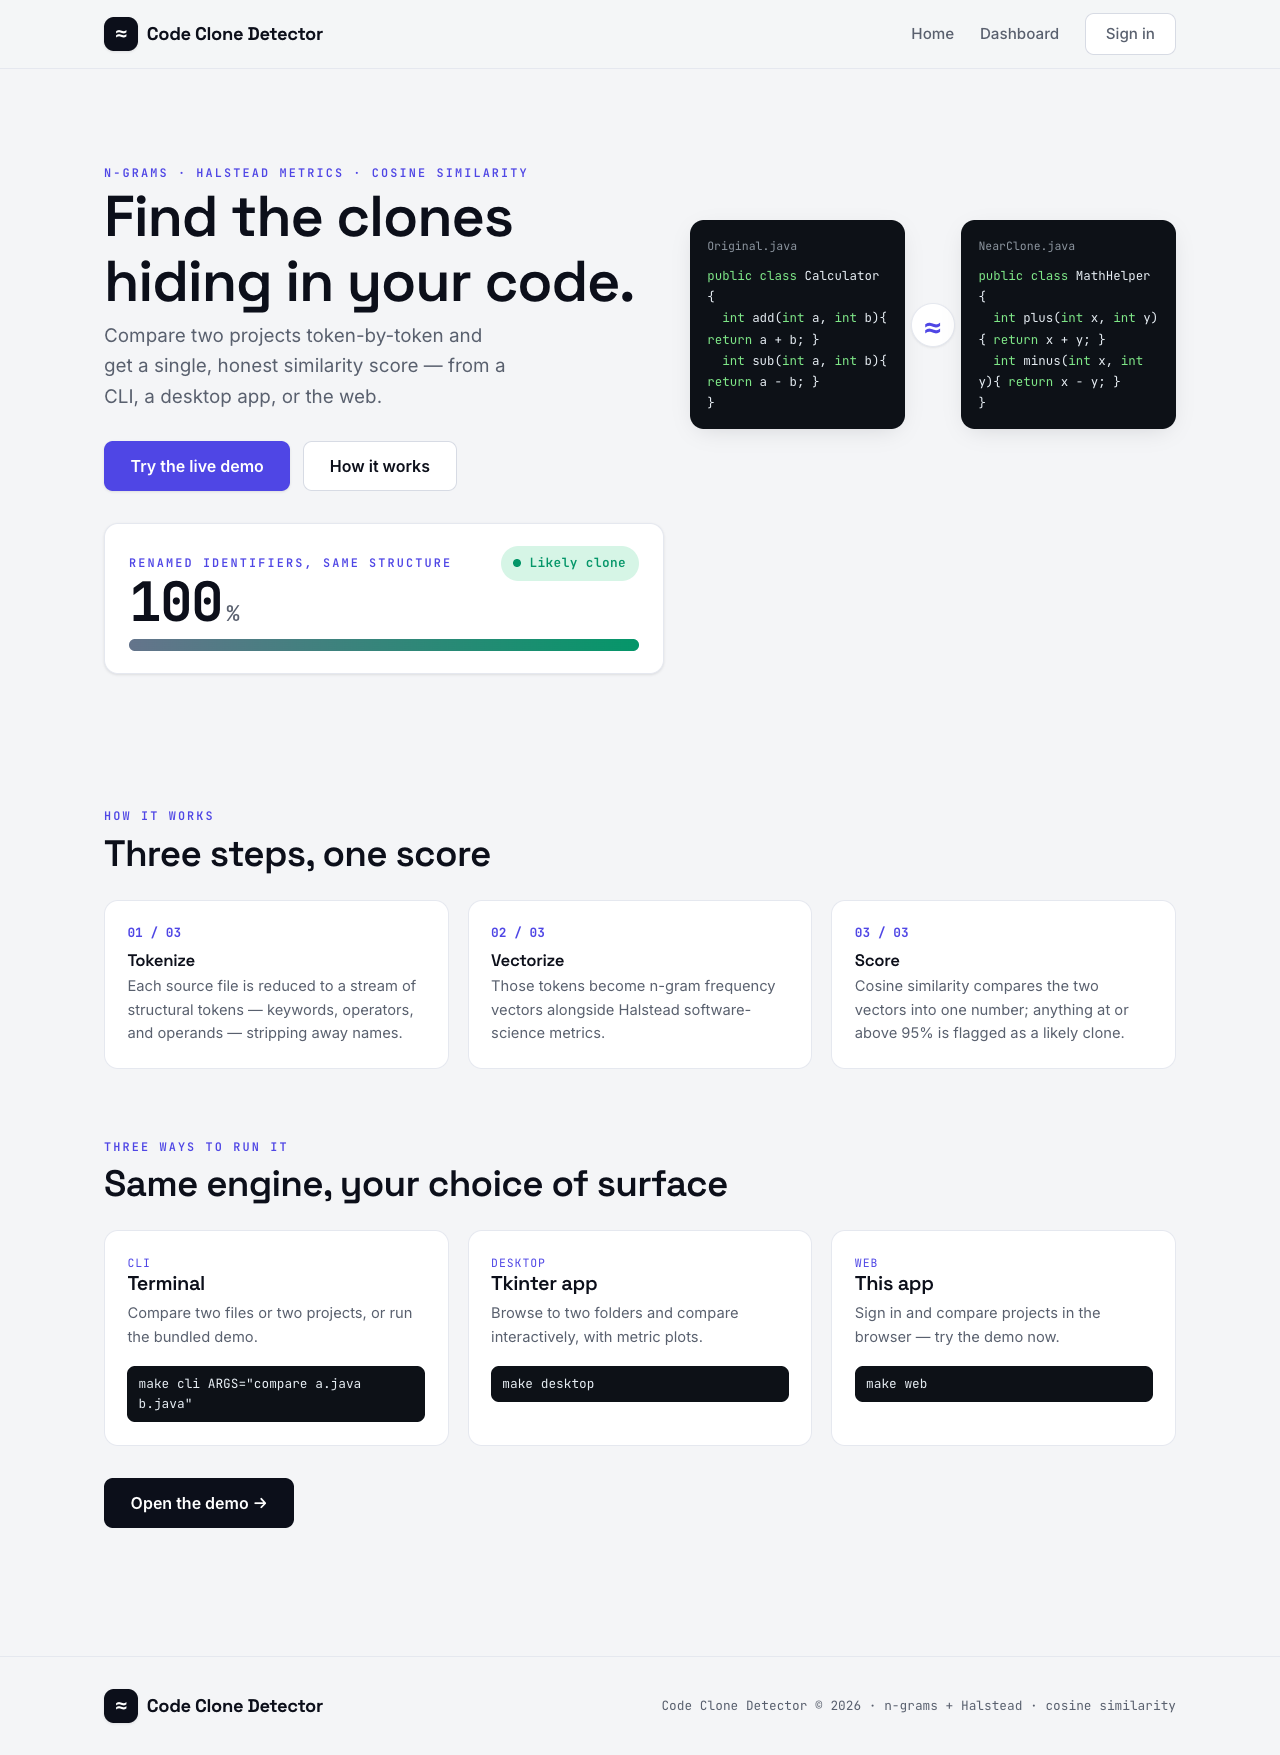
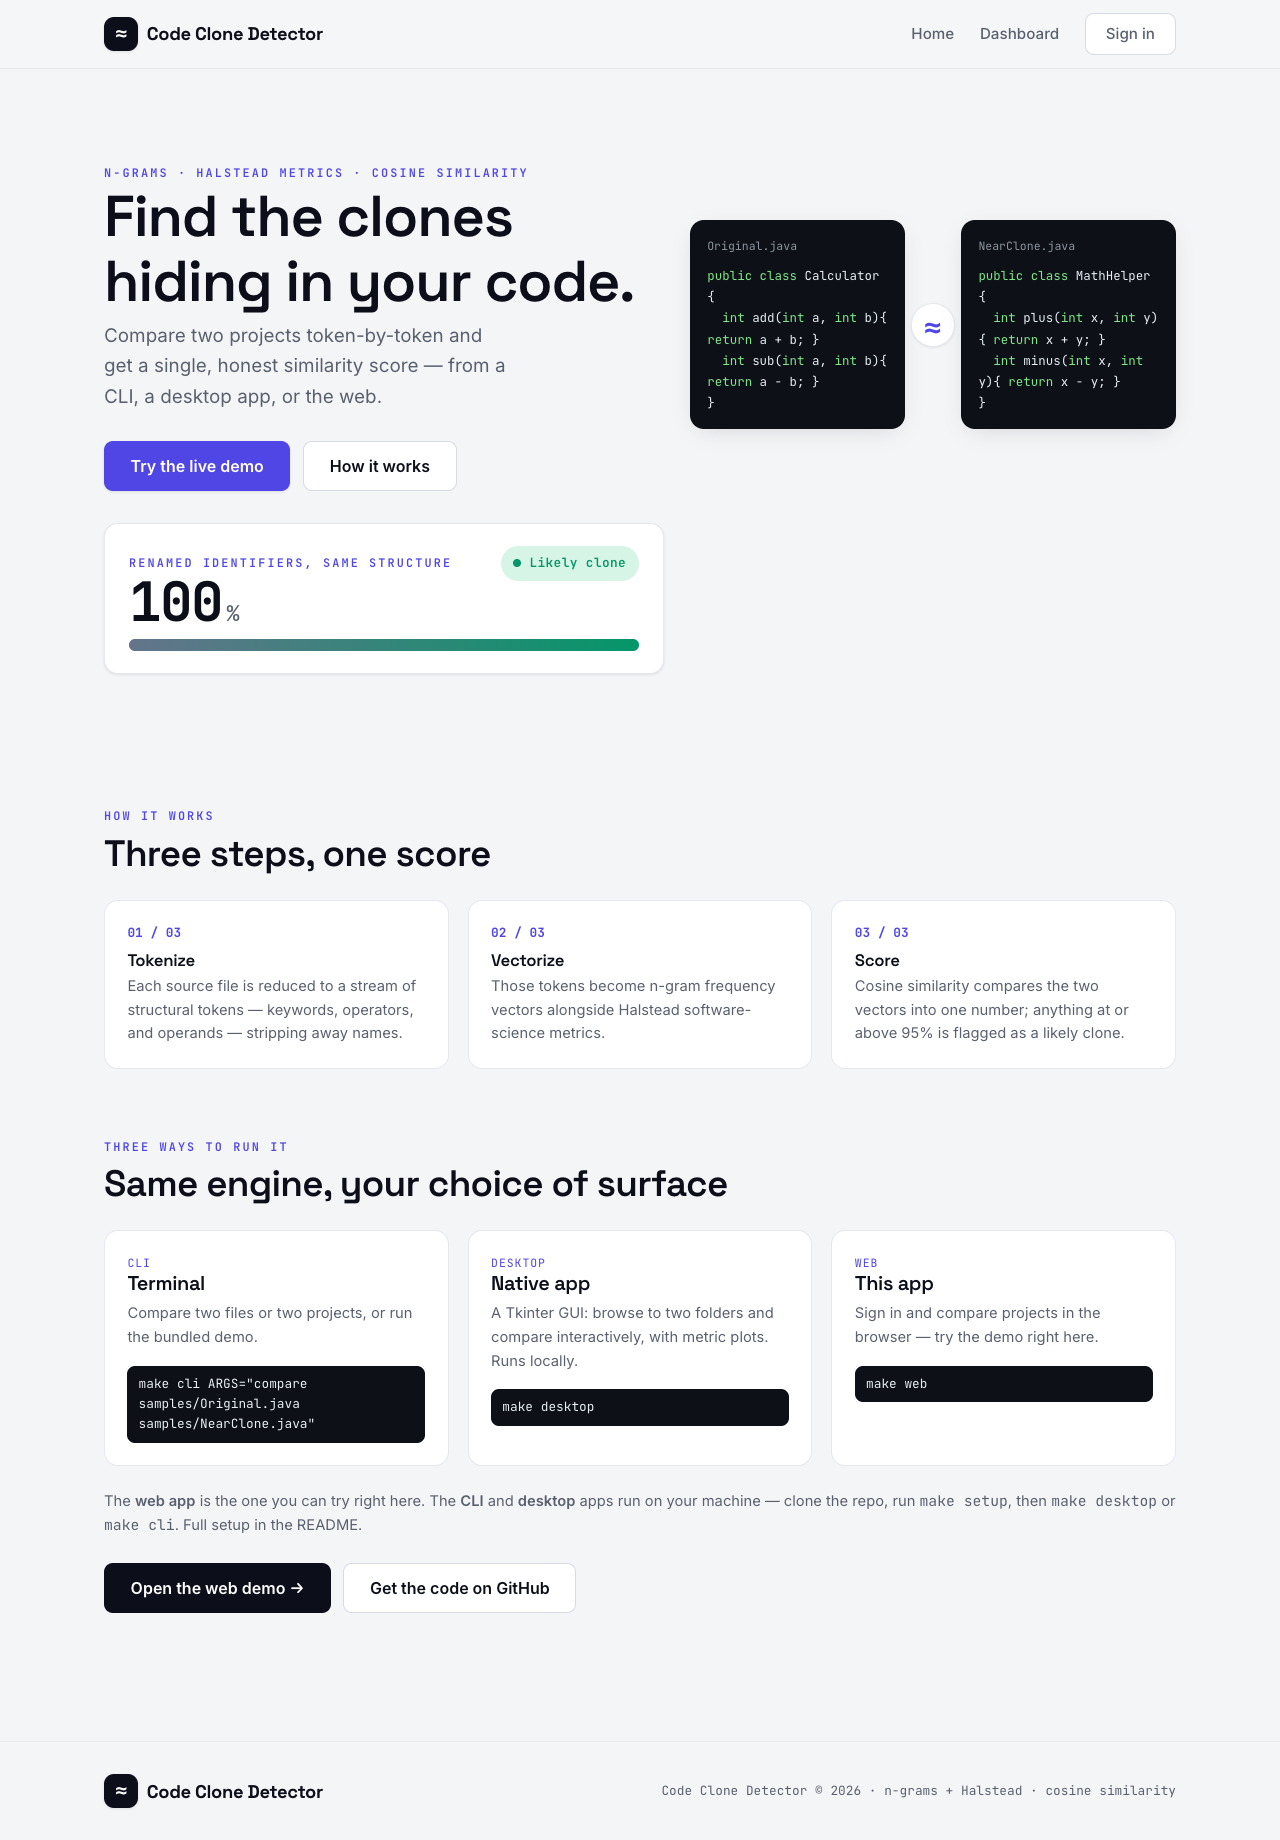
docs: clarify desktop/CLI are run locally + link repo from landing

diff --git a/CodeClone/templates/CodeClone/index.html b/CodeClone/templates/CodeClone/index.html
@@ -74,18 +74,24 @@
       <div class="way"><div class="way__tag">CLI</div>
         <h3>Terminal</h3>
         <p class="muted" style="font-size:.92rem">Compare two files or two projects, or run the bundled demo.</p>
-        <code>make cli ARGS="compare a.java b.java"</code></div>
+        <code>make cli ARGS="compare samples/Original.java samples/NearClone.java"</code></div>
       <div class="way"><div class="way__tag">DESKTOP</div>
-        <h3>Tkinter app</h3>
-        <p class="muted" style="font-size:.92rem">Browse to two folders and compare interactively, with metric plots.</p>
+        <h3>Native app</h3>
+        <p class="muted" style="font-size:.92rem">A Tkinter GUI: browse to two folders and compare interactively, with metric plots. Runs locally.</p>
         <code>make desktop</code></div>
       <div class="way"><div class="way__tag">WEB</div>
         <h3>This app</h3>
-        <p class="muted" style="font-size:.92rem">Sign in and compare projects in the browser — try the demo now.</p>
+        <p class="muted" style="font-size:.92rem">Sign in and compare projects in the browser — try the demo right here.</p>
         <code>make web</code></div>
     </div>
-    <div style="margin-top:2rem">
-      <a class="btn btn--dark btn--lg" href="{% url 'dashboard' %}">Open the demo &rarr;</a>
+    <p class="muted" style="margin:1.4rem 0 0; font-size:.92rem">
+      The <strong>web app</strong> is the one you can try right here. The <strong>CLI</strong>
+      and <strong>desktop</strong> apps run on your machine — clone the repo, run
+      <code class="mono">make setup</code>, then <code class="mono">make desktop</code> or
+      <code class="mono">make cli</code>. Full setup in the README.</p>
+    <div style="margin-top:1.6rem; display:flex; gap:.8rem; flex-wrap:wrap">
+      <a class="btn btn--dark btn--lg" href="{% url 'dashboard' %}">Open the web demo &rarr;</a>
+      <a class="btn btn--ghost btn--lg" href="https://github.com/a6dulrauf/Code-Clone-Detector">Get the code on GitHub</a>
     </div>
   </div>
 </section>

diff --git a/README.md b/README.md
@@ -46,8 +46,11 @@ A near-clone pair (renamed identifiers) and an unrelated pair:
     similarity: 90.37%   ->  NOT A CLONE
 ```
 
-**Desktop** — the Tkinter app (`make desktop`). Add a screenshot/GIF at
-`docs/media/desktop.png` (capture steps in [`docs/media/README.md`](docs/media/README.md)).
+**Desktop** — a **native Tkinter GUI** (it runs on your machine, not in the browser).
+Clone the repo, then `make setup` and `make desktop`. Screenshot below (capture
+steps in [`docs/media/README.md`](docs/media/README.md)):
+
+![Desktop app](docs/media/desktop.png)
 
 ## The three interfaces
 
